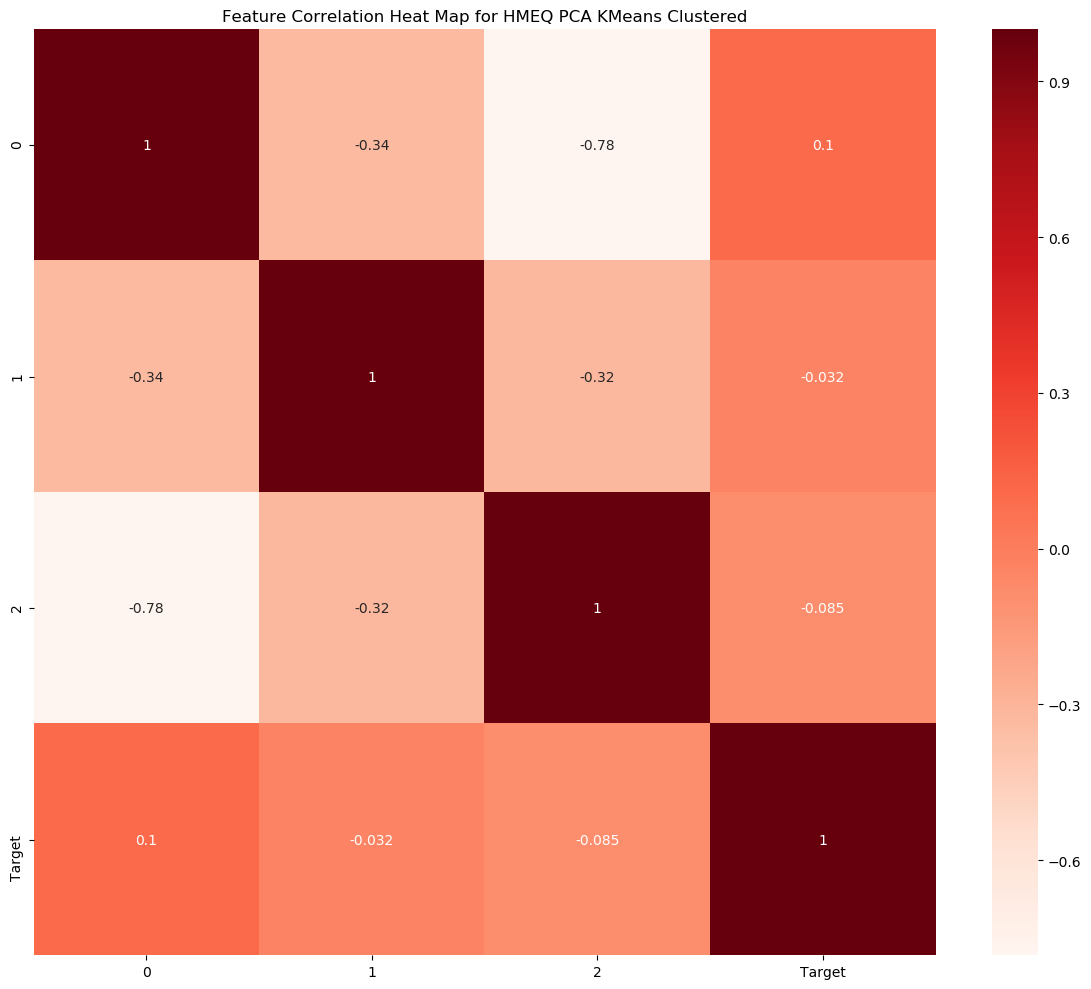
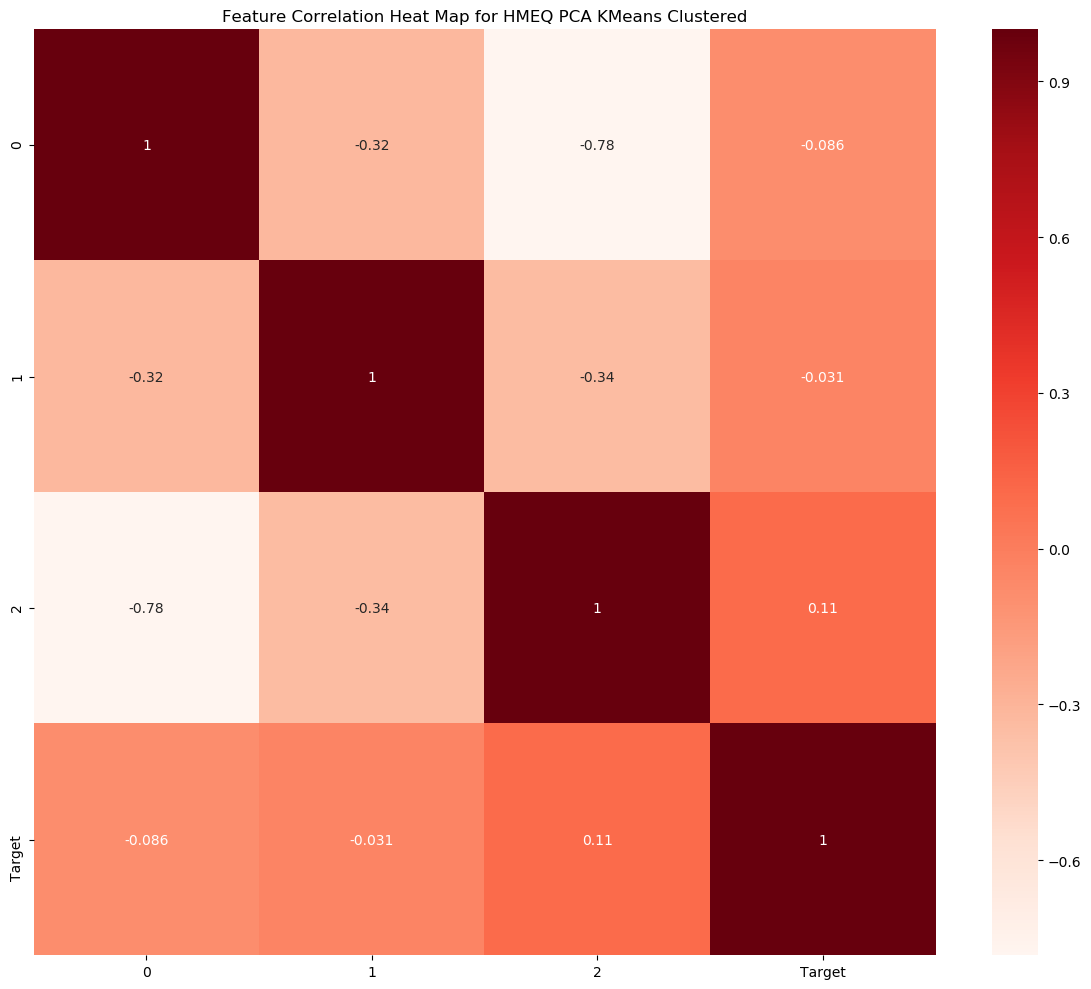
updated pca to be smart about n components selection

Changed region(s): [[0.4363, 0.4853, 0.8726, 0.9707], [0.6233, 0.0303, 0.8726, 0.273], [0.0312, 0.728, 0.2493, 0.9707]]

diff --git a/projections.py b/projections.py
@@ -3,6 +3,13 @@ from sklearn.decomposition import PCA, FastICA
 from sklearn import random_projection
 from sklearn.ensemble import ExtraTreesClassifier
 from sklearn.feature_selection import SelectFromModel
+import seaborn as sb
+import pandas as pd
+import matplotlib as mpl
+mpl.use('agg')
+import matplotlib.pyplot as plt
+import numpy as np
+from kneed import KneeLocator
 
 def get_n_components(x):
     n_comps = math.floor(len(x.iloc[0]) / 2)
@@ -10,15 +17,37 @@ def get_n_components(x):
 
     return n_comps
 
-def run_pca(x, _y):
-    n_components = get_n_components(x)
+# https://jakevdp.github.io/PythonDataScienceHandbook/05.09-principal-component-analysis.html
+def get_num_pca_comp(x, name):
+    pca = PCA().fit(x)
+
+    vr = np.cumsum(pca.explained_variance_ratio_)
+
+    x = range(1, len(vr) + 1)
+    kneedle = KneeLocator(x, vr, S=1.0, curve='concave', direction='increasing')
+    
+    knee = math.ceil(kneedle.knee)
+
+    plt.figure()
+    plt.plot(x, vr, 'bx-')
+    plt.xlabel('Number of Components')
+    plt.ylabel('Cumulative Explained Variance')
+    plt.axvline(x=knee, label="Selected Number of Components")
+    plt.legend(loc="best")
+    plt.title('N-Components vs. Explained Variance for {}'.format(name))
+    plt.savefig("pca_curves/{}.png".format(name))
+
+    return knee
+
+def run_pca(x, _y, name):
+    n_components = get_num_pca_comp(x, name)
     pca = PCA(n_components=n_components)
 
     transformer = pca.fit(x)
 
     return transformer.transform(x)
 
-def run_ica(x, _y):
+def run_ica(x, _y, name):
     n_components = get_n_components(x) + 1
     ica = FastICA(n_components=n_components, whiten=True)
 
@@ -26,14 +55,14 @@ def run_ica(x, _y):
 
     return transformer.fit_transform(x)
 
-def run_rp(x, _y):
+def run_rp(x, _y, name):
     n_components = get_n_components(x)
     transformer = random_projection.GaussianRandomProjection(n_components=n_components)
 
     return transformer.fit_transform(x)
 
 # https://scikit-learn.org/stable/modules/feature_selection.html
-def run_tree_selection(x, y):
+def run_tree_selection(x, y, name):
     clf = ExtraTreesClassifier(n_estimators=50)
     clf = clf.fit(x, y)
 

diff --git a/run_all.py b/run_all.py
@@ -16,7 +16,7 @@ def run_transform(name, data_x, data_y, transformer):
     sys.stdout = open(report_name, "w")
 
     #2 transform the data
-    transform_x = transformer(data_x, data_y)
+    transform_x = transformer(data_x, data_y, name)
     plot_corr(name, pd.DataFrame(data=transform_x), data_y)
     
     kmeans_name = "{} KMeans Clustered".format(name)
@@ -65,12 +65,12 @@ def run_original(data_x, data_y, name):
 def run_data_set(get_data_fn, name):
     data_x, data_y = get_data_fn()
 
-    run_original(data_x, data_y, name)
+#     run_original(data_x, data_y, name)
 
     # Transforms
-    run_transform("{} PCA".format(name), data_x, data_y, run_pca)
-    run_transform("{} ICA".format(name), data_x, data_y, run_ica)
-    run_transform("{} Tree Selection".format(name), data_x, data_y, run_tree_selection)
+#     run_transform("{} PCA".format(name), data_x, data_y, run_pca)
+#     run_transform("{} ICA".format(name), data_x, data_y, run_ica)
+#     run_transform("{} Tree Selection".format(name), data_x, data_y, run_tree_selection)
 
     for i in range(1, 6):
         run_transform("{} RP Run {}".format(name, i), data_x, data_y, run_rp)

diff --git a/cluster.py b/cluster.py
@@ -8,7 +8,7 @@ mpl.use('agg')
 import matplotlib.pyplot as plt
 import math
 import numpy as np
-from kneed import DataGenerator, KneeLocator
+from kneed import KneeLocator
 
 # https://towardsdatascience.com/feature-selection-with-pandas-e3690ad8504b
 def plot_corr(name, x, y):
